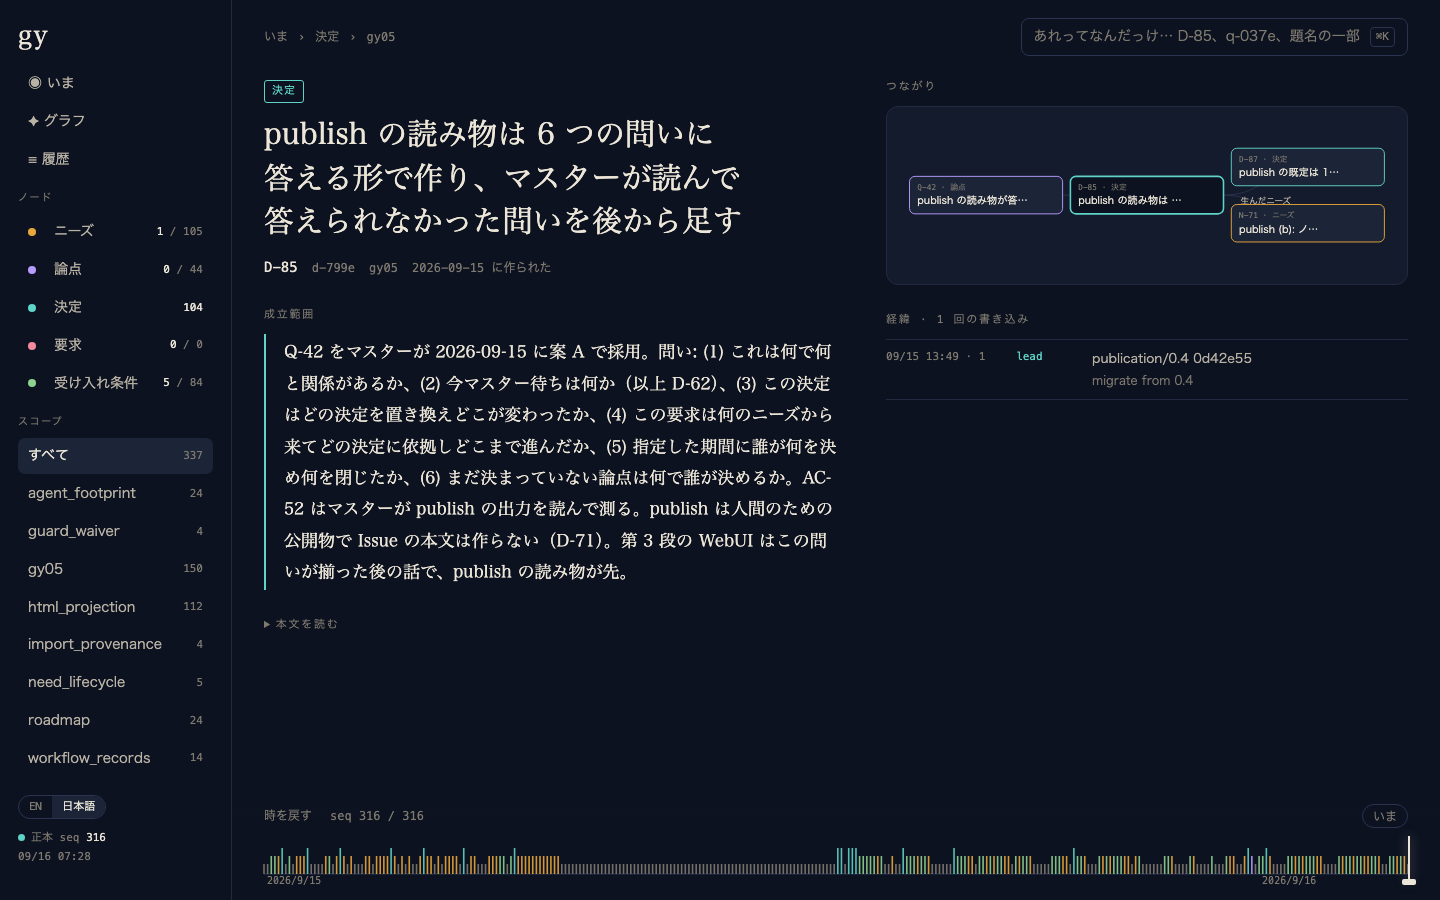
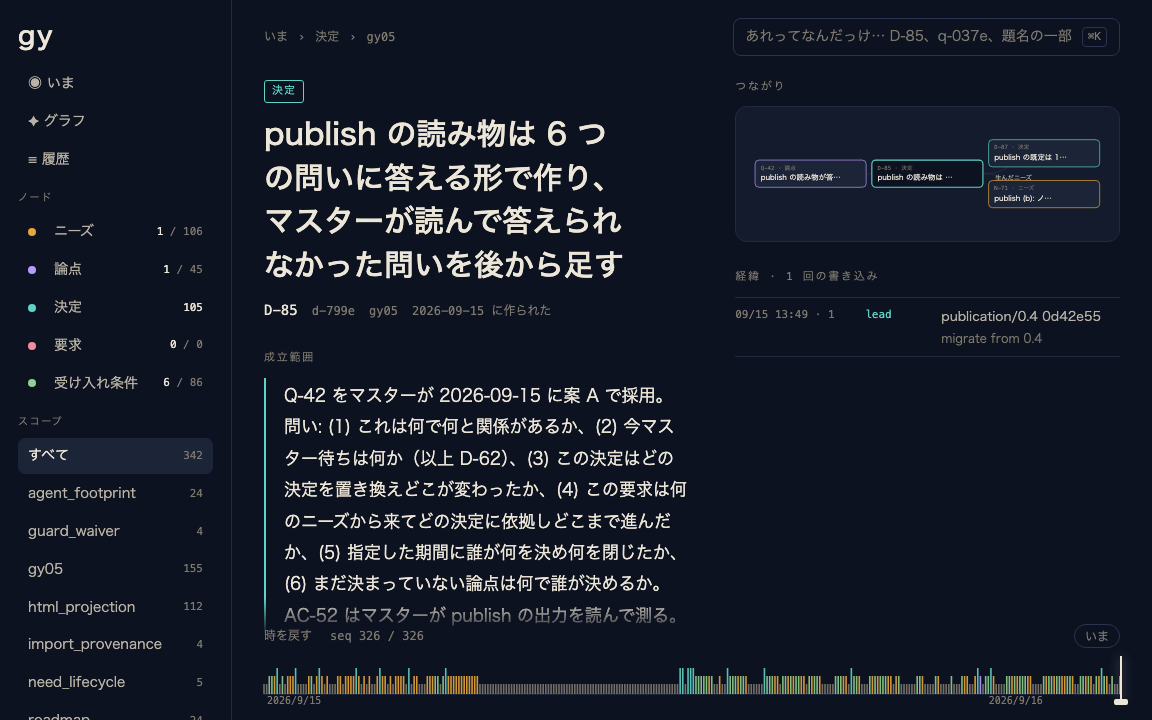
style(serve): one gothic face everywhere; the wordmark links to now
The master's call (d-6d28): no Mincho; headings keep their hierarchy by
weight instead. The sidebar's "gy" is a link back to the now page, and
the English "waiting" headline no longer trips over its plural. The
README screenshots are retaken at 1152x720.

Claude-Session: https://claude.ai/code/session_01ALmyKpaYrCxxaVQkFXsvKy

diff --git a/crates/gy-serve/src/assets/now.css b/crates/gy-serve/src/assets/now.css
@@ -4,11 +4,11 @@
 .home{display:grid;grid-template-columns:minmax(0,1.6fr) minmax(300px,1fr);gap:48px;align-items:start}
 .hero{padding:22px 0 8px}
 .eyebrow{font-family:var(--mono);font-size:11px;letter-spacing:.16em;color:var(--paper-3);text-transform:uppercase}
-.hero h1{font-family:var(--serif);font-weight:400;font-size:38px;line-height:1.35;margin:10px 0 0;text-wrap:balance}
+.hero h1{font-family:var(--sans);font-weight:600;font-size:38px;line-height:1.35;margin:10px 0 0;text-wrap:balance}
 .hero h1 .n{color:var(--requirement)}
 .hero p{margin:10px 0 0;color:var(--paper-2);max-width:60ch}
 .sec{margin-top:34px}
-.sec h2{font-family:var(--serif);font-weight:400;font-size:19px;margin:0 0 12px;letter-spacing:.02em;display:flex;align-items:baseline;gap:12px}
+.sec h2{font-family:var(--sans);font-weight:500;font-size:19px;margin:0 0 12px;letter-spacing:.02em;display:flex;align-items:baseline;gap:12px}
 .sec h2 .cnt{font-family:var(--mono);font-size:12px;color:var(--paper-3)}
 .sec h2 a.more{margin-left:auto;font-family:var(--mono);font-size:11px;color:var(--paper-3)}
 .sec h2 a.more:hover{color:var(--paper)}
@@ -19,13 +19,13 @@
 .row .t{color:var(--paper);overflow:hidden;text-overflow:ellipsis;white-space:nowrap}
 .row:hover .t{color:#fff;text-decoration:underline;text-underline-offset:4px;text-decoration-color:var(--line)}
 .row .st{font-size:12px;color:var(--paper-3);white-space:nowrap}
-.empty{color:var(--paper-3);padding:10px 0;border-top:1px solid var(--line-soft);border-bottom:1px solid var(--line-soft);font-family:var(--serif)}
+.empty{color:var(--paper-3);padding:10px 0;border-top:1px solid var(--line-soft);border-bottom:1px solid var(--line-soft);font-family:var(--sans)}
 .wait{display:block;border:1px solid var(--requirement);border-radius:10px;padding:14px 18px;margin-top:10px;background:rgba(242,139,160,.06)}
 .wait .who{font-family:var(--mono);font-size:11px;color:var(--requirement);letter-spacing:.1em}
-.wait .t{font-family:var(--serif);font-size:18px;margin:4px 0 6px}
+.wait .t{font-family:var(--sans);font-weight:500;font-size:18px;margin:4px 0 6px}
 .wait .opts{color:var(--paper-2);font-size:13px;margin:0;padding-left:18px}
 .pulse{position:sticky;top:64px;padding-top:22px;padding-bottom:120px}
-.pulse h2{font-family:var(--serif);font-weight:400;font-size:19px;margin:0 0 6px}
+.pulse h2{font-family:var(--sans);font-weight:500;font-size:19px;margin:0 0 6px}
 .pulse .sub{font-family:var(--mono);font-size:11px;color:var(--paper-3);letter-spacing:.08em;margin-bottom:14px}
 .pl{position:relative;padding-left:22px;border-left:1px solid var(--line)}
 .pi{position:relative;padding:6px 0 10px;font-size:13px}

diff --git a/crates/gy-serve/src/assets/node.css b/crates/gy-serve/src/assets/node.css
@@ -1,12 +1,12 @@
 /* The node page's rules, from the prototype (.local/proto/template.html). */
 .node{display:grid;grid-template-columns:minmax(0,1.1fr) minmax(360px,1fr);gap:48px;padding-top:12px;align-items:start}
-.nh h1{font-family:var(--serif);font-weight:400;font-size:30px;line-height:1.45;margin:10px 0 0;text-wrap:balance}
+.nh h1{font-family:var(--sans);font-weight:600;font-size:30px;line-height:1.45;margin:10px 0 0;text-wrap:balance}
 .nh .meta{display:flex;gap:14px;align-items:center;flex-wrap:wrap;font-family:var(--mono);font-size:12px;color:var(--paper-3);margin-top:12px}
 .nh .meta .al{color:var(--paper);font-size:14px}
 .card{margin-top:26px}
 .card h3{font-family:var(--mono);font-size:11px;letter-spacing:.16em;color:var(--paper-3);text-transform:uppercase;margin:0 0 10px;font-weight:500;display:flex;gap:12px;align-items:baseline}
 .card h3 a{margin-left:auto;letter-spacing:0;text-transform:none;color:var(--paper-3)} .card h3 a:hover{color:var(--paper)}
-.scope{font-family:var(--serif);font-size:17px;line-height:1.85;border-left:2px solid var(--decision);padding:2px 0 2px 18px;max-width:66ch}
+.scope{font-family:var(--sans);font-size:17px;line-height:1.85;border-left:2px solid var(--decision);padding:2px 0 2px 18px;max-width:66ch}
 .scope.c{border-color:var(--criterion)}
 .opts{list-style:none;padding:0;margin:0;display:flex;flex-direction:column;gap:8px}
 .opts li{border:1px solid var(--line);border-radius:8px;padding:10px 14px;font-size:14px;color:var(--paper-2)}

diff --git a/crates/gy-serve/src/assets/app.css b/crates/gy-serve/src/assets/app.css
@@ -5,7 +5,6 @@
   --ink:#0d1220; --ink-2:#141b2d; --ink-3:#1c2438; --line:#2a3450; --line-soft:#212a40;
   --paper:#ece6d8; --paper-2:#b9b3a6; --paper-3:#7e7a70;
   --need:#e9a63a; --question:#b79cff; --decision:#5fd3c7; --requirement:#f28ba0; --criterion:#8fd18f;
-  --serif:"Hiragino Mincho ProN","Yu Mincho","YuMincho","Noto Serif JP","Iowan Old Style","Palatino",serif;
   --sans:"Hiragino Sans","Hiragino Kaku Gothic ProN","Yu Gothic","Noto Sans JP",system-ui,sans-serif;
   --mono:"SF Mono","Menlo","JetBrains Mono",ui-monospace,monospace;
   --side:232px;
@@ -23,7 +22,7 @@ button{font:inherit;color:inherit;background:none;border:0;cursor:pointer}
 /* frame */
 .app{display:grid;grid-template-columns:var(--side) minmax(0,1fr);min-height:100vh}
 .side{position:sticky;top:0;height:100vh;border-right:1px solid var(--line-soft);padding:22px 18px 110px;display:flex;flex-direction:column;gap:18px;overflow:auto}
-.wordmark{font-family:var(--serif);font-size:26px;letter-spacing:.06em;line-height:1;display:flex;align-items:baseline;gap:10px}
+.wordmark{font-family:var(--sans);font-weight:600;font-size:26px;letter-spacing:.06em;line-height:1;display:flex;align-items:baseline;gap:10px}
 .wordmark small{font-family:var(--mono);font-size:10px;color:var(--paper-3);letter-spacing:.12em}
 .nav{display:flex;flex-direction:column;gap:2px}
 .nav .h{font-family:var(--mono);font-size:10px;letter-spacing:.16em;color:var(--paper-3);text-transform:uppercase;margin:10px 0 6px}

diff --git a/crates/gy-serve/src/assets/palette.css b/crates/gy-serve/src/assets/palette.css
@@ -2,7 +2,7 @@
 .pal{position:fixed;inset:0;z-index:20;background:rgba(6,9,18,.7);display:none;align-items:flex-start;justify-content:center;padding-top:14vh;backdrop-filter:blur(3px)}
 .pal.on{display:flex}
 .pal .box{width:min(720px,92vw);background:var(--ink-2);border:1px solid var(--line);border-radius:12px;box-shadow:0 30px 80px rgba(0,0,0,.6);overflow:hidden}
-.pal input{width:100%;font:inherit;font-size:20px;font-family:var(--serif);background:transparent;border:0;outline:0;color:var(--paper);padding:18px 22px;border-bottom:1px solid var(--line)}
+.pal input{width:100%;font:inherit;font-size:20px;font-family:var(--sans);background:transparent;border:0;outline:0;color:var(--paper);padding:18px 22px;border-bottom:1px solid var(--line)}
 .pal input::placeholder{color:var(--paper-3)}
 .pal .res{max-height:50vh;overflow:auto}
 .pal .r{display:grid;grid-template-columns:20px 74px minmax(0,1fr) auto;gap:12px;align-items:baseline;padding:10px 22px;cursor:pointer}

diff --git a/crates/gy-serve/src/assets/graph.css b/crates/gy-serve/src/assets/graph.css
@@ -6,7 +6,7 @@ canvas#g.grab{cursor:grabbing}
 .gpanel{position:absolute;right:28px;top:14px;width:320px;background:rgba(20,27,45,.92);border:1px solid var(--line);border-radius:12px;padding:14px 16px;backdrop-filter:blur(6px);display:none;box-shadow:0 20px 60px rgba(0,0,0,.4)}
 .gpanel.on{display:block}
 .gpanel .kk{font-family:var(--mono);font-size:11px;color:var(--paper-3);display:flex;gap:10px;align-items:center}
-.gpanel .tt{font-family:var(--serif);font-size:17px;line-height:1.5;margin:6px 0 8px}
+.gpanel .tt{font-family:var(--sans);font-weight:500;font-size:17px;line-height:1.5;margin:6px 0 8px}
 .gpanel .rel{font-size:12px;color:var(--paper-2);display:flex;flex-direction:column;gap:3px;max-height:180px;overflow:auto}
 .gpanel .rel a:hover{color:#fff;text-decoration:underline;text-underline-offset:3px}
 .gpanel .rel .rl{font-family:var(--mono);font-size:10px;color:var(--paper-3);margin-right:6px;letter-spacing:.06em}

diff --git a/e2e/tests/now.spec.ts b/e2e/tests/now.spec.ts
@@ -45,3 +45,11 @@ test('the language switch redraws without a reload', async ({ page }) => {
   await expect(heading).not.toHaveText(english);
   expect(await page.evaluate(() => (window as unknown as { kept?: boolean }).kept)).toBe(true);
 });
+
+test('the wordmark returns to the now page from a list', async ({ page }) => {
+  await page.goto(`${gy.url}#/list/Need`);
+  await page.locator('.wordmark').click();
+
+  await expect(page).toHaveURL(/#\/$/);
+  await expect(page.locator('.hero h1')).toBeVisible();
+});

diff --git a/crates/gy-serve/src/assets/list.css b/crates/gy-serve/src/assets/list.css
@@ -1,5 +1,5 @@
 /* The list page's own rules: the prototype's list block and the wide row. */
-.list h1{font-family:var(--serif);font-weight:400;font-size:28px;margin:16px 0 4px}
+.list h1{font-family:var(--sans);font-weight:600;font-size:28px;margin:16px 0 4px}
 .list .sub{color:var(--paper-3);font-size:13px;margin-bottom:16px}
 .chips{display:flex;gap:6px;flex-wrap:wrap;margin-bottom:12px}
 .chips button{font-size:12px;padding:3px 10px;border-radius:999px;border:1px solid var(--line);color:var(--paper-2)}

diff --git a/crates/gy-serve/src/assets/index.html b/crates/gy-serve/src/assets/index.html
@@ -15,7 +15,7 @@
 <body>
 <div class="app">
 <aside class="side">
-  <div class="wordmark">gy</div>
+  <a class="wordmark" href="#/">gy</a>
   <nav class="nav" id="nav"></nav>
   <div class="foot">
     <div class="lang" id="lang"><button data-l="en">EN</button><button data-l="ja">日本語</button></div>

diff --git a/crates/gy-serve/tests/assets.rs b/crates/gy-serve/tests/assets.rs
@@ -84,7 +84,7 @@ fn the_stylesheet_defines_the_frame_variables() {
     ] {
         assert!(css.contains(&format!("{name}:")), "{name} is not defined");
     }
-    for name in ["--serif", "--sans", "--mono"] {
+    for name in ["--sans", "--mono"] {
         assert!(css.contains(&format!("{name}:")), "{name} is not defined");
     }
 }
